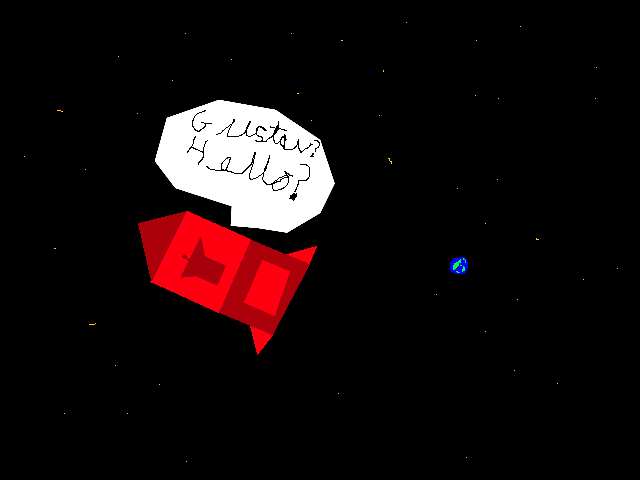
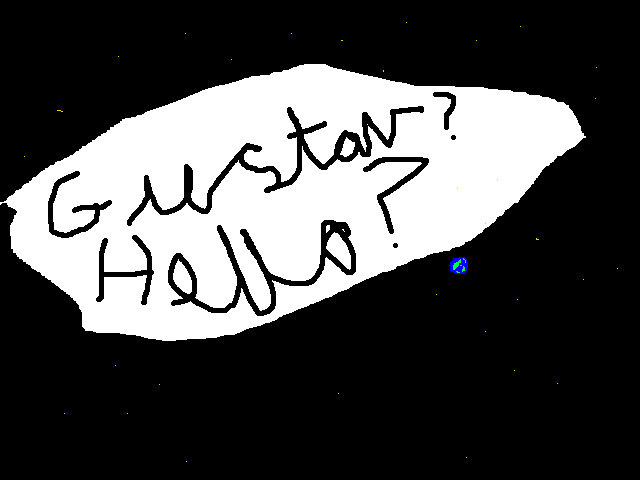
hitboxes work nicely

Changed region(s): [[0.0, 0.125, 0.9062, 0.75]]

diff --git a/main.js b/main.js
@@ -60,28 +60,6 @@ function hitCircleBox(c,b){
 }
 
 
-function trueCollides(a,b){
-  if (! a.boundSet) {return true}
-  if (! b.boundSet){
-    let bs = a.boundSet();
-    let b_area = getArea(b);
-    console.log("Boundset, B_area",bs,b_area);
-    for (let i in bs){
-      if (hitCircleBox(bs[i],b_area)) return true;
-    }
-    return false;
-  }
-  let as = a.boundSet();
-  let bs = b.boundset();
-  for (ab in as){
-    for (bb in bs){
-      if (hitCircleCircle(as[ab],bs[bb])){
-        return true
-      }
-    }
-  }
-  return false
-}
 
 function angler(friction){
   friction ??= 0;
@@ -185,24 +163,7 @@ function waypoints(wps,speed) {
 
 
 
-function smallBounds(points){
-  //points [{angle, dist, size}]
-  return {
-    boundSet(){
-      let res = [];
-      let a = this.angle ?? 0;
-      for(let i in points){
-        let p = points[i];
-        let a2 = a + (p.angle ?? 0);
-        let x = this.pos.x - p.dist * Math.sin(a2);
-        let y = this.pos.y - p.dist * Math.cos(a2);
-        res.push({x:x,y:y,r:p.size});
-      }
-      return res;
-    }
 
-  }
-}
 
 function chaser(target){
   return{
@@ -244,51 +205,43 @@ function keyMove(dist,rot){
     }
 }
 
+function tracker(target,angle,dist){
+  return {
+    add(){
+      action(()=>{
+        let a = angle + (target.angle??0);
+        this.pos.x =target.pos.x - dist*Math.sin(a);
+        this.pos.y = target.pos.y - dist*Math.cos(a);
+      })
+    }
+  }
+}
+
 //this: rect(10,40),color(1,1,0),area(vec2(-5,-10),vec2(10,10)),
 
 // define a scene
 const s1 = k.scene("main", () => {
-  //  let background = add([sprite("background"),pos(0,0)])
-    let ship = add(["ship",sprite("ship"), scale(2,3), pos(300,400),
-                  origin("center"),rotate(0),vel(2),keyMove(5,0.5),
-                  boundsCheck(edge,()=>{go("left",score)}),angler(4),
-                  //rect(25,25),color(1,1,0),
-                  smallBounds([{angle:0,dist:7,size:5},{angle:Math.PI,dist:7,size:5}]),
-                  area(vec2(-13,-13),vec2(13,13)),
+    let background = add([sprite("background"),pos(0,0)])
 
+    let ship = add(["ship",sprite("ship"), pos(300,400),
+                  origin("center"),rotate(0),vel(2),keyMove(5,0.5),
+                  boundsCheck(edge,()=>{go("left",score)}),angler(4)
                   ]);
+    add(["hbox",pos(0,0),tracker(ship,0,20),area(vec2(-7,-7),vec2(7,7)),origin("center")])
+    add(["hbox",pos(0,0),tracker(ship,Math.PI,25),area(vec2(-7,-7),vec2(7,7)),origin("center")])
+    add(["hbox",pos(0,0),tracker(ship,0,0),area(vec2(-7,-7),vec2(7,7)),origin("center")])
+
+
     let score = add(["score",text("score=0",30),pos(0,2),{n:0}]);
     function addScore(n){
       score.n+=n;
       score.text = `score=${score.n}`;
     }
 
-    ship.overlaps("ufo",(u)=>{//rect(10,40),color(1,1,0),area(vec2(-5,-10),vec2(10,10)),
 
-      if (! trueCollides(ship,u)) return;
-
-
-      console.log("Collision",ship,u);
-      //if (! trueCollides(a,b)) return ;
-
+    collides("hbox","ufo", (h,u) =>{
       go("exploded",score)
     });
-
-    render("ship",(s)=>{
-      drawRect(vec2(0,0),50,50,{color:rgba(1,1,1,1)});
-      let bs = s.boundSet();
-      for (let i in bs){
-        let p = bs[i];
-        //console.log("Render BS",i,p);
-        drawRect(vec2(p.x - p.r,p.y-p.r),200,2*p.r,{color:rgba(1,1,1,1)})
-      }
-    });
-    render("ufo",(u) => {
-      let a = u.area;
-      //console.log("UFO Area" ,a)
-      drawRect(vec2(u.pos.x+ a.p1.x,u.pos.y + a.p1.y),a.p2.x - a.p1.x,a.p2.y-a.p1.y,{color:rgba(1,1,1,1)})
-    })
-
 
     collides("ufo","ufo",(a,b)=>{
       addScore(1)
@@ -304,11 +257,12 @@ const s1 = k.scene("main", () => {
               break;
               case 1 : p = pos(Math.random()*680-20,500);
               break;
-              case 2 : p = pos(-40,Math.random()*520-40);
+              case 2 : p = pos(-40,Math.random()*520-20);
               break;
               default: p = pos(680,Math.random()*520-20);
             }
-            add(["ufo",sprite("ufo"),p,chaser(ship),origin("center")])
+            let u = add(["ufo",sprite("ufo"),p,chaser(ship),origin("center")])
+            console.log("Added ",u);
     });
     keyPress("space",()=>{go("two",score)})
 });
